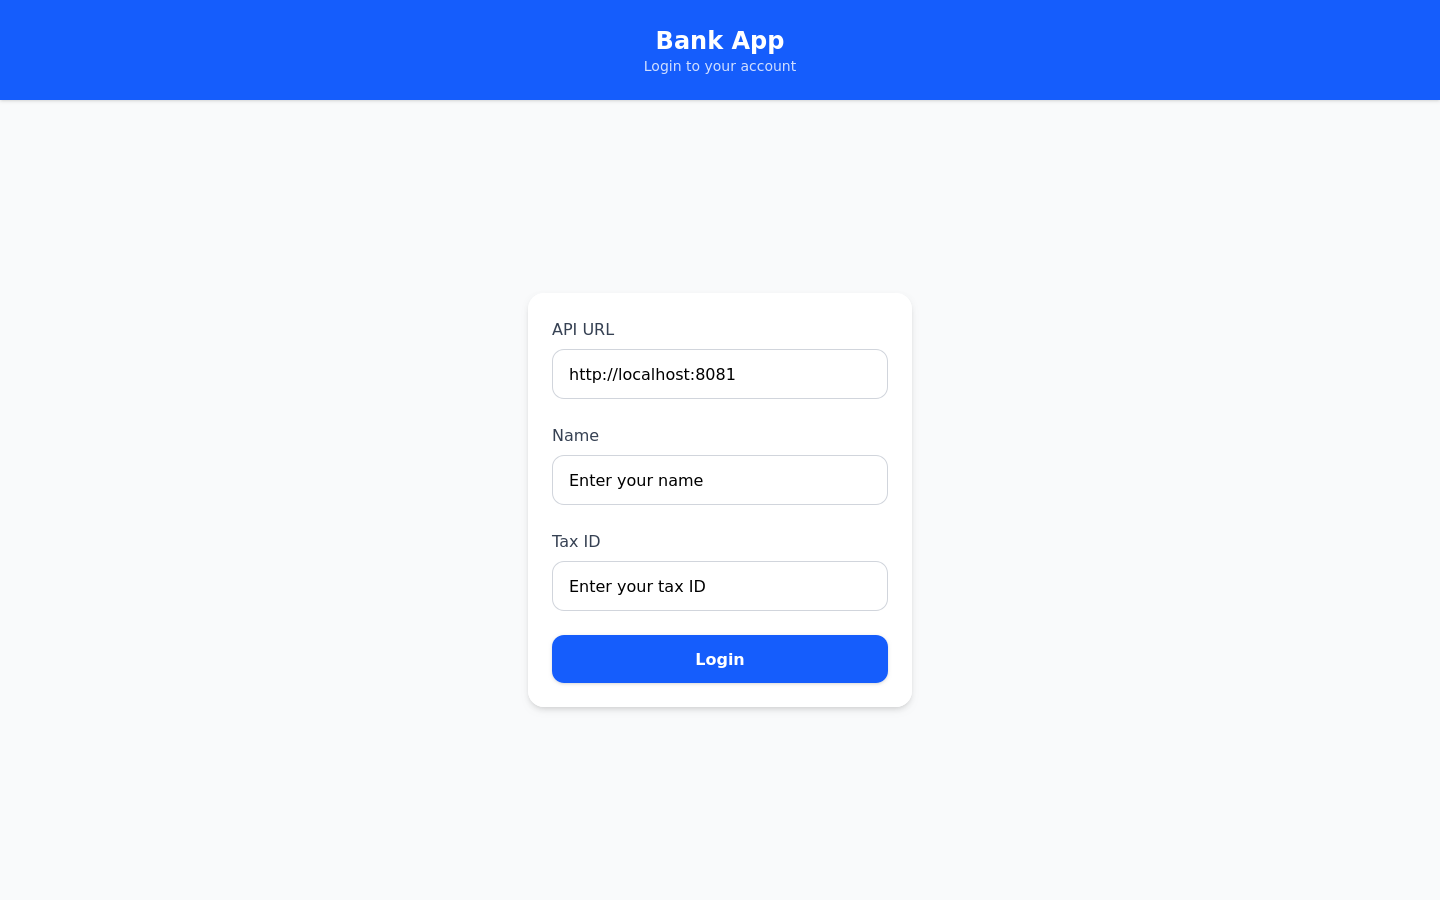
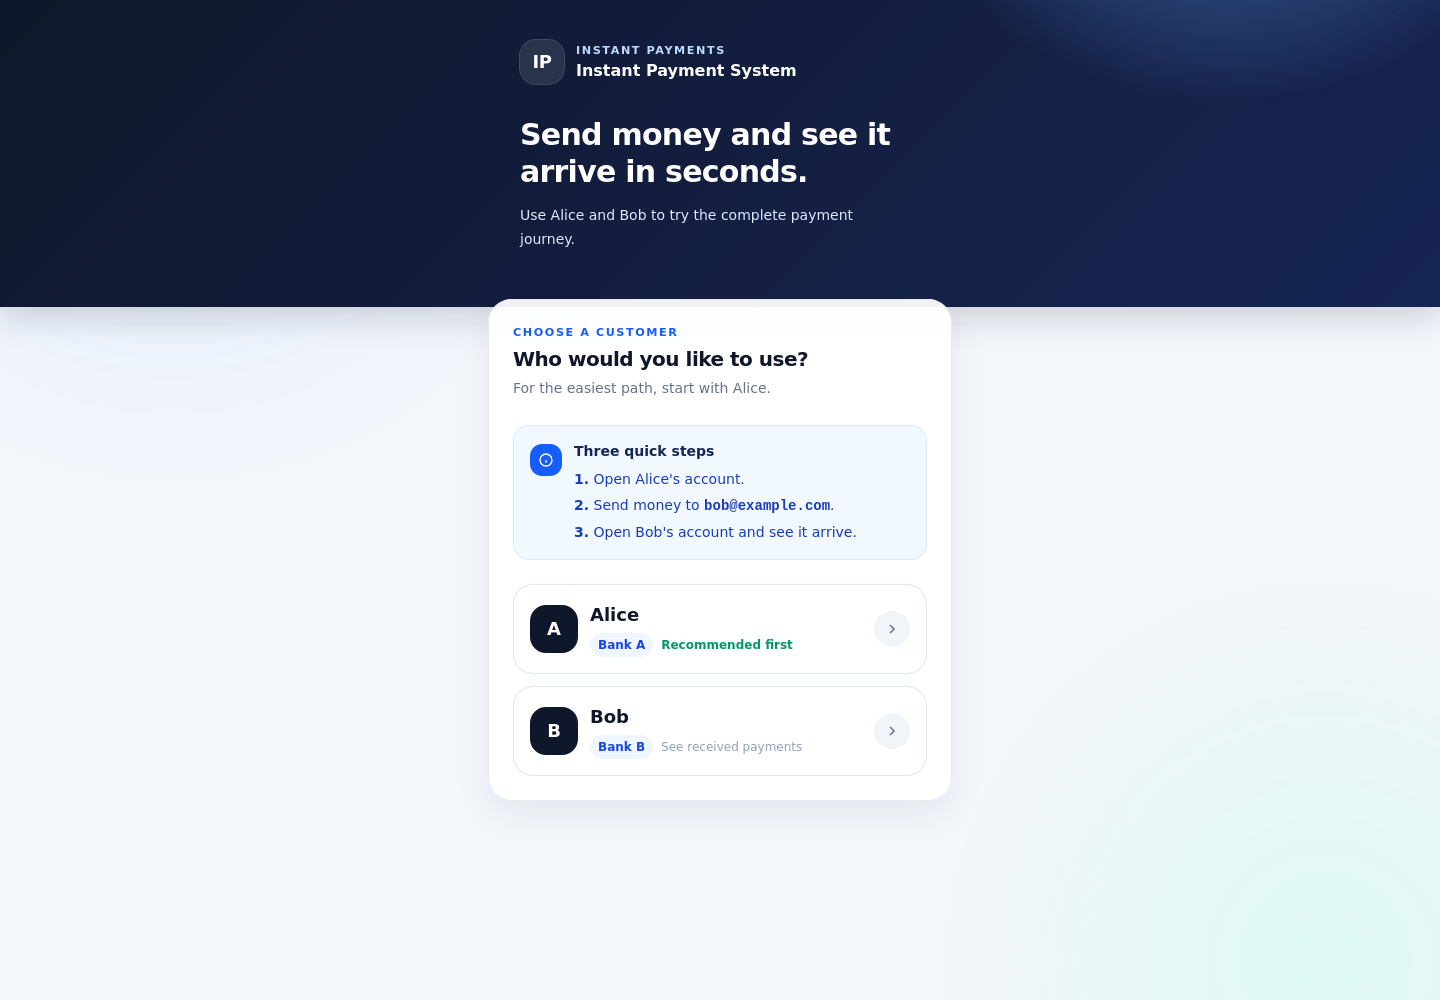
feat(demo): simplify reference demo onboarding

diff --git a/demo/README.md b/demo/README.md
@@ -1,46 +1,67 @@
 # Reference demo
 
-This directory contains a small interactive demonstration of the instant-payment system. It is not part of the benchmarked core and carries no performance, durability, availability, or production-readiness guarantees.
+This demo turns the payment flow into something you can see and interact with. Alice has an account at Bank A, Bob has an account at Bank B, and the application lets you send a PIX payment between them through the project's core services.
 
-The demo contains a minimal DICT, two simulated PSPs and an Angular application. Its only commitment is a reproducible happy path: create two customers, register a PIX key, resolve the receiver, submit a payment through the core and observe the resulting balance changes at both PSPs.
+It is a guided example, not part of the benchmarked system. Its purpose is simply to make the payment journey concrete.
 
-## Start
+## Try it
 
-Start the core first from the repository root:
+From the repository root, start the core and the demo:
 
 ```bash
-LOCAL_UID=$(id -u) LOCAL_GID=$(id -g) docker compose -f infra/docker-compose.yml up -d --build
+./demo/demo start
 ```
 
-Then start the reference demo:
+If you have already used the core locally, start with [`./demo/demo reset`](#start-over) instead so both sides begin with matching state.
 
-```bash
-LOCAL_UID=$(id -u) LOCAL_GID=$(id -g) docker compose -f demo/docker-compose.yml up -d --build
+Then open <http://localhost:4200> and follow the path shown on screen:
+
+1. Choose Alice.
+2. Send money to Bob using `bob@example.com`.
+3. Wait for the payment to be confirmed.
+4. Open Bob's account and see the money arrive.
+
+Alice and Bob are created automatically with an initial balance. Bob's PIX key is also ready to use. Alice starts without a key, but you can register one if you want to send money back from Bob.
+
+![Reference demo customer selection screen](screenshots/payment-app.png)
+
+## Explore the API
+
+The [Bruno collection](../docs/collection/README.md) walks through the same flow as explicit HTTP requests. It creates a separate PIX key for its own run, so it does not interfere with the guided browser path.
+
+The two banks are also available directly at:
+
+```text
+Bank A: http://localhost:8081
+Bank B: http://localhost:8082
 ```
 
-Open <http://localhost:4200>. PSP A is available at `http://localhost:8081`; PSP B is available at `http://localhost:8082`. The environment prepares Alice at PSP A and Bob at PSP B. Both can send and receive payments. Only Bob's `bob@example.com` key is pre-provisioned so the first payment works immediately; Alice starts without a key and the user may register one through the interface before sending money back from Bob. Choose either customer from the opening screen. The application briefly waits for the final outcome and keeps the latest payment statuses on both account screens. The [Bruno collection](../docs/collection/README.md) provides the same flow as explicit API calls.
+## Check the complete flow
 
-The automated smoke exercises the complete business path and verifies the final balance changes and `SETTLED` payment histories observed by both PSPs:
+The automated smoke test sends a payment through the same public interfaces and verifies that both banks observe the final status and balance changes:
 
 ```bash
-./demo/smoke.sh
+./demo/demo smoke
 ```
 
-## Interface
+## Start over
 
-![Reference demo account screen](screenshots/payment-app.png)
+The demo keeps Alice, Bob and their payments only in memory, while the core keeps its payment and notification history. Restarting only one side can therefore leave them out of sync.
 
-## Reset
-
-DICT and PSP state are intentionally ephemeral, while the notification cursor refers to the durable core notification log. A clean demonstration therefore starts with both stacks empty; restarting only the demo against an existing core history is not supported.
+To recreate both sides from a clean state, run:
 
 ```bash
-docker compose -f demo/docker-compose.yml down --remove-orphans
-docker compose -f infra/docker-compose.yml down -v --remove-orphans
-LOCAL_UID=$(id -u) LOCAL_GID=$(id -g) docker compose -f infra/docker-compose.yml up -d --build
-LOCAL_UID=$(id -u) LOCAL_GID=$(id -g) docker compose -f demo/docker-compose.yml up -d --build
+./demo/demo reset
+```
+
+This command deletes the local PostgreSQL and Kafka volumes before starting everything again.
+
+To stop only the demo and leave the core running:
+
+```bash
+./demo/demo stop
 ```
 
 ## Scope
 
-The demo deliberately does not provide production-grade PSP persistence, HA, performance tuning, comprehensive error handling, broad test coverage, or a complete DICT. The Rust load tool remains the authoritative instrument for core correctness and performance validation.
+The demo is intentionally small. It does not claim production-grade persistence, availability, performance or operational resilience. Those properties belong to the benchmarked core; this application exists only to make its happy path easy to experience.

diff --git a/docs/collection/README.md b/docs/collection/README.md
@@ -7,13 +7,15 @@ senderPspUrl=http://localhost:8081
 receiverPspUrl=http://localhost:8082
 ```
 
-Set the receiver key if you do not want to use the default:
+The collection registers and uses its own receiver key:
 
 ```text
-receiverPixKey=bob@example.com
+receiverPixKey=bruno-bob@example.com
 ```
 
-Requests `01`, `02`, and `04` set `senderCustomerId`, `receiverCustomerId`, and `previewReceiverJson` automatically.
+Requests `01` and `02` set `senderCustomerId` and `receiverCustomerId` automatically. Request `03` registers `receiverPixKey`; request `04` resolves it; request `05` submits the transfer using the same key.
+
+Start from a clean demo environment before running the folder so the key registration is reproducible.
 
 Run requests in order:
 
